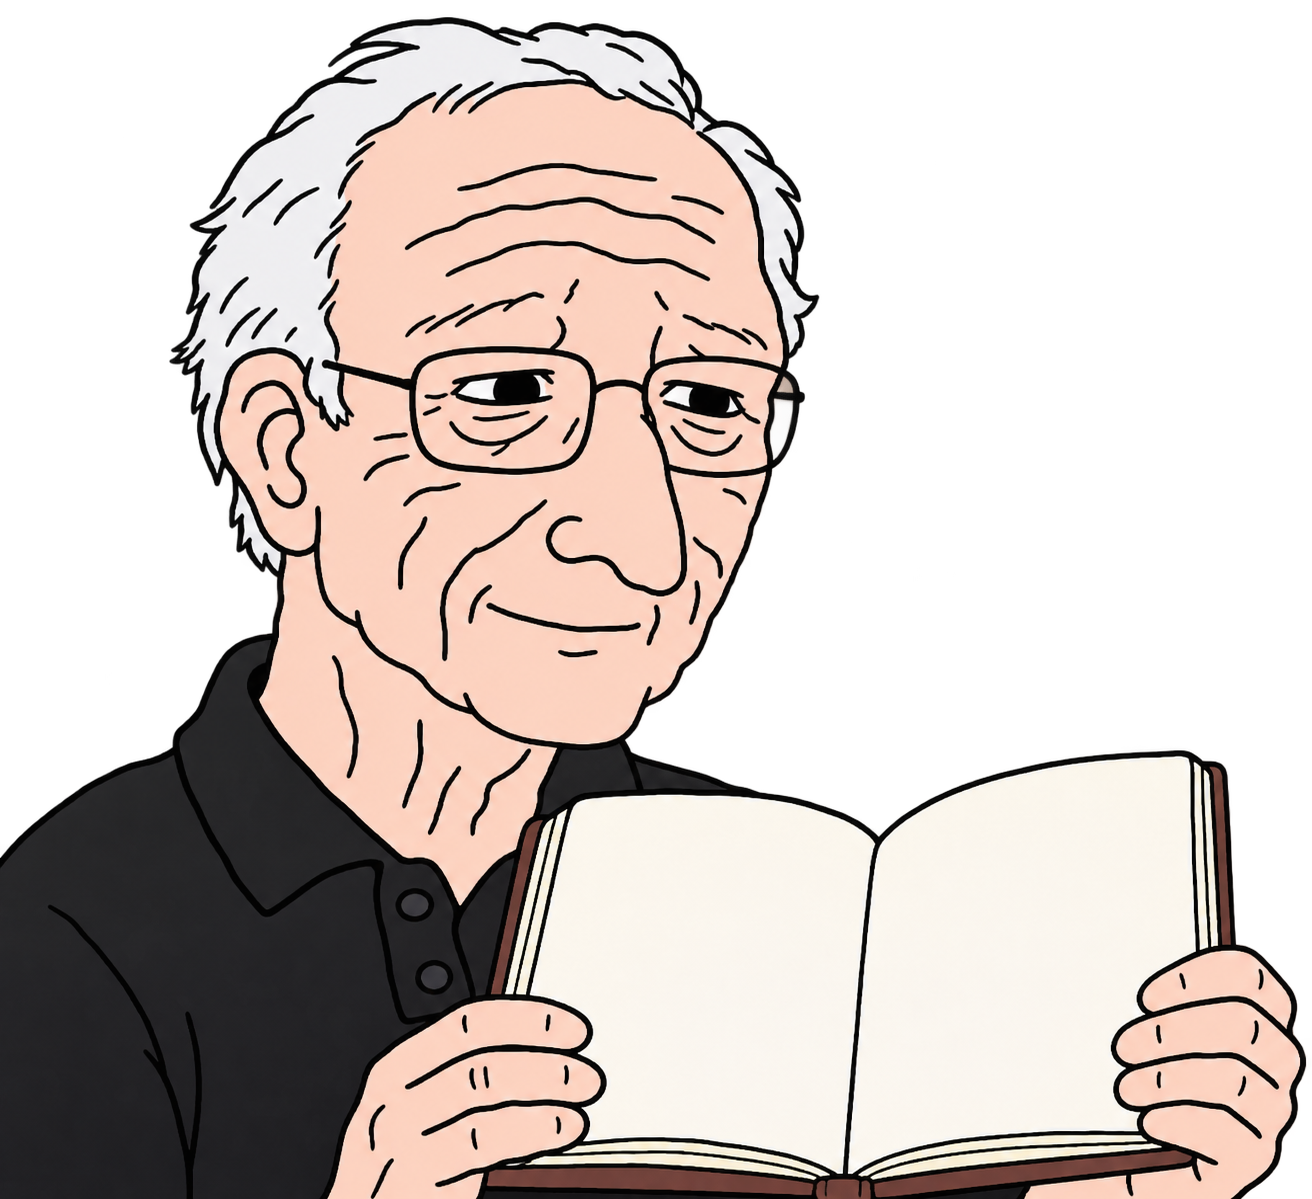
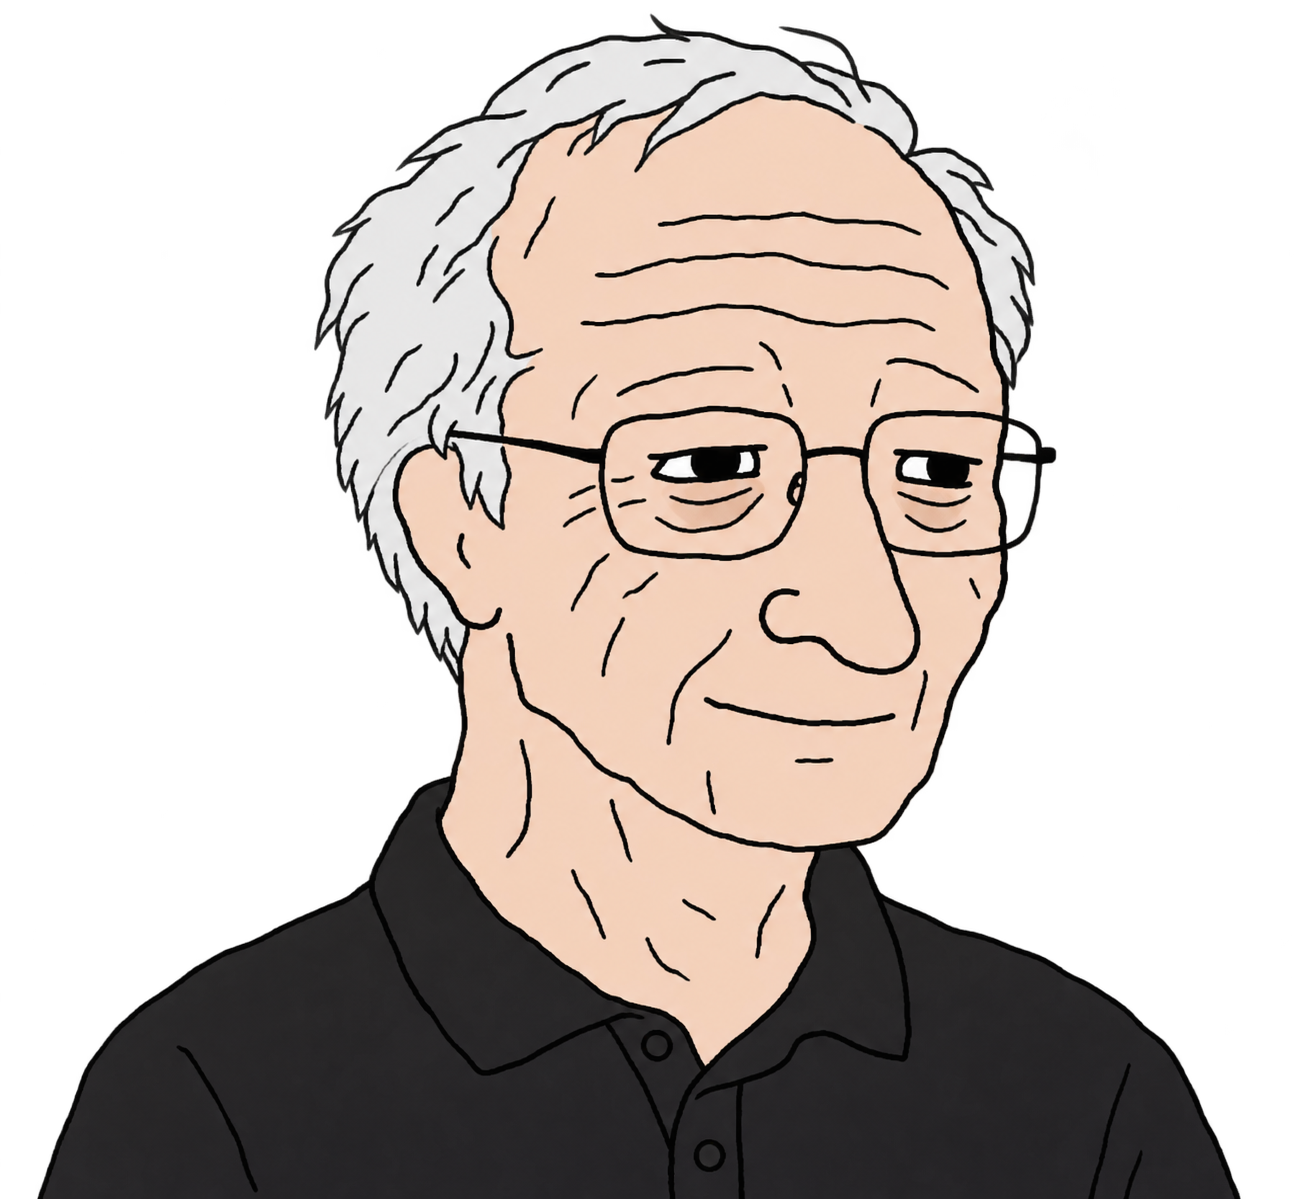
Norman Wojak without a book; owner rule: no Wojak holds a book or object
Claude-Session: https://claude.ai/code/session_01JteZbjgJzANfm9zkD8PK4e

diff --git a/CLAUDE.md b/CLAUDE.md
@@ -56,7 +56,7 @@ Owner's channel name: **LingoDude**. Six scripted 1080p videos in the "Nearly Ex
   Saved idea the owner liked, **option 2**: `lingo/ideas/same_language_different_countries.md` (the original country says it first, then each other country's version, then the next language).
 - Thumbnails (`thumb_photo.mjs`): always the channel look: white name strip, photo, Wojak, flag, PART label for series, and the hook in **red** text with a white outline (owner: "keep it"). Never another hook colour.
 - Similar-languages video: `lingo/similar.mjs` + `similar_pairs.json` + `swadesh.json` (owner: random words are no basis; every pair is scored on the same 41 Swadesh core words, `similar_score.py`: vocabulary = same root, sound = spelling edit distance, grammar = 6-point checklist, averaged to a %; 10 of the words are played per pair, real Lingua Libre recordings; `fetch_pairs.py` downloads the mp3 transcodes, `--rescore` refreshes scores only). Czech–Slovak and Danish–Norwegian dropped: no Czech/Danish core-word recordings on Lingua Libre.
-- Wojaks are generated with ChatGPT through the Codex CLI (device-code sign-in by the owner). Stay signed in between batches; the owner says "logout" when they want the session closed (owner, 2026-10-20). ChatGPT sometimes fails to save the image: retry the job, it is not a content problem.
+- Wojaks are generated with ChatGPT through the Codex CLI (device-code sign-in by the owner). Stay signed in between batches; the owner says "logout" when they want the session closed (owner, 2026-10-20). ChatGPT sometimes fails to save the image: retry the job, it is not a content problem. No Wojak holds a book or any object (owner, 2026-11-20: the generated books came out upside down); prompt for "nothing in his/her hands".
 - Babies video: `lingo/babycry.mjs` (cries from public YouTube videos the owner is asking permission for; pitch traced with `baby_analyze.py`), Wojak crying babies `wojaks/baby_*.png`.
 
 - Easiest languages (done): `lingo/easy.json` rendered with `node vulgar.mjs --set easy` (explicit `rank` field). Rank = FSI weeks, ties broken by Swadesh look-alike % (`easy_score.py`, Wiktionary appendices in `easy_data/`).
